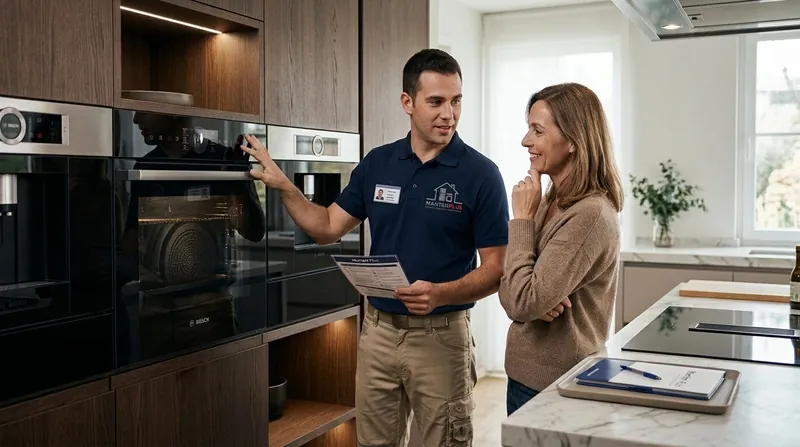
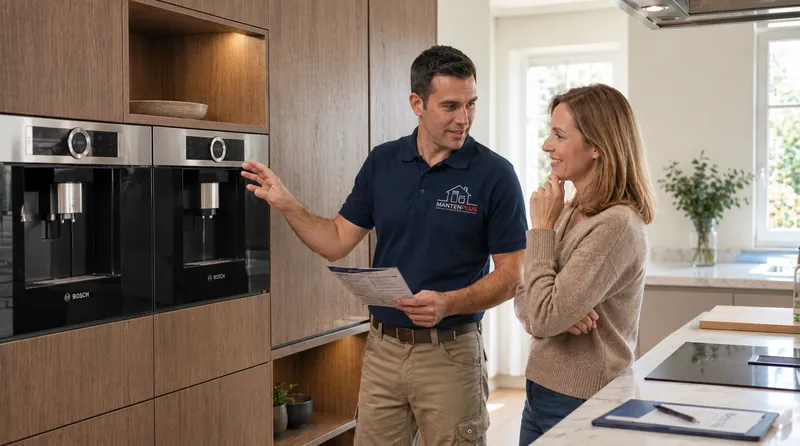
Corrige la foto del paso 4 «Charla de uso»
Reemplaza la foto enviada por error: técnico explicando a la dueña de
casa el uso de sus cafeteras empotradas.

Claude-Session: https://claude.ai/code/session_012jyCr3wqnRcai8VXK93yGC

diff --git a/index.html b/index.html
@@ -668,7 +668,7 @@
                   <span>Foto: técnico explicando el panel del equipo al cliente</span>
                 </div>
                 <picture>
-                  <img src="assets/img/proceso/paso-4-charla-1376.webp" srcset="assets/img/proceso/paso-4-charla-800.webp 800w, assets/img/proceso/paso-4-charla-1376.webp 1376w" sizes="(max-width: 860px) 85vw, 54vw" alt="Técnico de MantenPlus mostrando a la dueña de casa cómo usar su horno empotrado, con una guía impresa en la mano" width="1376" height="768" style="object-position: 55% 50%" loading="lazy" decoding="async">
+                  <img src="assets/img/proceso/paso-4-charla-1440.webp" srcset="assets/img/proceso/paso-4-charla-800.webp 800w, assets/img/proceso/paso-4-charla-1440.webp 1440w" sizes="(max-width: 860px) 85vw, 54vw" alt="Técnico de MantenPlus explicando a la dueña de casa el uso de sus cafeteras empotradas, con una guía impresa en la mano" width="1440" height="804" style="object-position: 55% 50%" loading="lazy" decoding="async">
                 </picture>
                 <span class="photo-tag">Imagen referencial</span>
               </figure>

diff --git a/docs/07-directrices-marca.md b/docs/07-directrices-marca.md
@@ -30,7 +30,7 @@ Las fotos entregadas tienen rasgos de imagen generada (logotipos y textos ilegib
 | 6 | Foto nueva del equipo | Cuatro técnicos con el mismo uniforme y credencial visible, más dos integrantes de atención al cliente (4:3) |
 | 7 | Herramientas | Dos fotos en dos columnas: instrumentos de medición, y herramientas de precisión con detector de fugas de gas |
 
-Segunda entrega del 2 nov: foto nueva en Instalación y panelado, foto nueva en el paso 4 «Charla de uso» (técnico explicando el uso del horno a la dueña de casa), foto nueva en el paso 2 «Diagnóstico transparente» (técnico leyendo el código E15 de un lavavajillas en su tablet; la placa de horno queda solo en la galería) y foto nueva del equipo.
+Segunda entrega del 2 nov: foto nueva en Instalación y panelado, foto nueva en el paso 4 «Charla de uso» (técnico explicando a la dueña de casa el uso de sus cafeteras empotradas), foto nueva en el paso 2 «Diagnóstico transparente» (técnico leyendo el código E15 de un lavavajillas en su tablet; la placa de horno queda solo en la galería) y foto nueva del equipo.
 
 Rótulo «Imagen referencial» en las fotos con logos o textos ilegibles: portada, Instalación y panelado, pasos 1, 2 y 4 del proceso, equipo, placa de horno y fuelle de lavadora. En el carrusel del proceso el rótulo va arriba para no tapar detalles de la foto. El comparador mantiene la nota general «Imágenes referenciales del tipo de trabajo que realizamos».
 
@@ -46,7 +46,7 @@ Observaciones pendientes para el cliente:
 | Instalación y panelado | `assets/img/instalacion-panelado-{800,1365}.webp` |
 | Antes/después | `assets/img/resultados/{lavadora,secadora,lavavajillas,horno,microondas,encimera,campana}-{antes,despues}-*.webp` |
 | Galería | `assets/img/galeria/*-{640,1280}.webp` |
-| Proceso | `assets/img/proceso/paso-1-llegada-{800,1408}.webp`, `paso-2-diagnostico-{480,688}.webp`, `paso-4-charla-{800,1376}.webp`; el paso 3 usa la campana de isla de la galería |
+| Proceso | `assets/img/proceso/paso-1-llegada-{800,1408}.webp`, `paso-2-diagnostico-{480,688}.webp`, `paso-4-charla-{800,1440}.webp`; el paso 3 usa la campana de isla de la galería |
 | Equipo | `assets/img/equipo-mantenplus-{720,1195}.webp` |
 | Herramientas | `assets/img/herramientas/{instrumentos-medicion,herramientas-precision}-{640,1280}.webp` |
 
